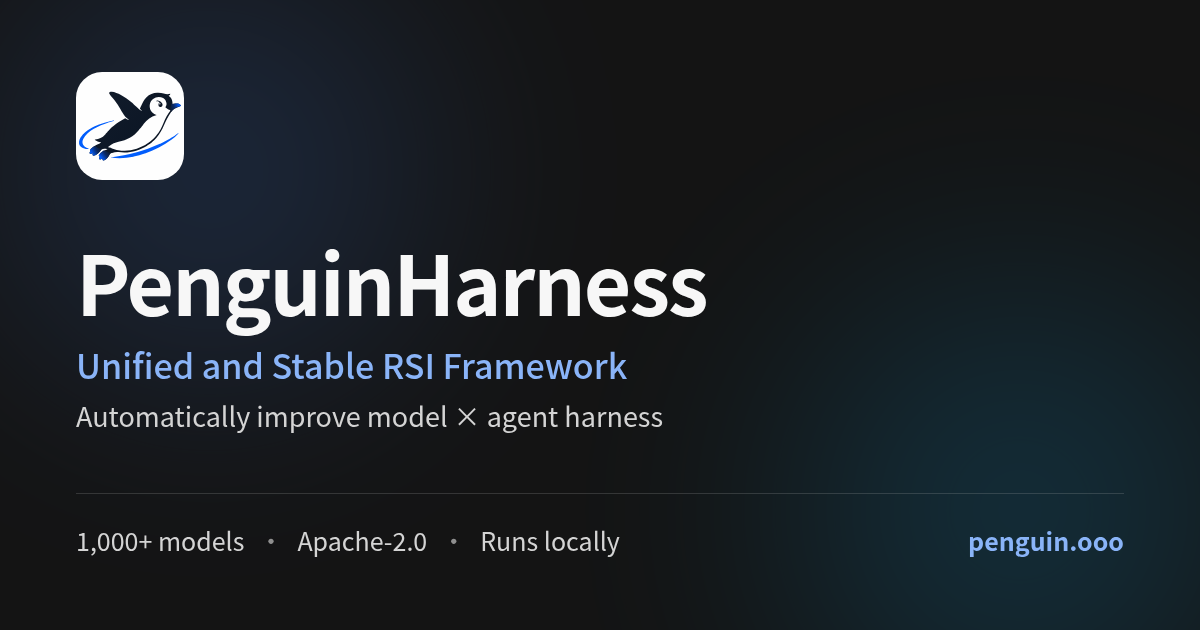
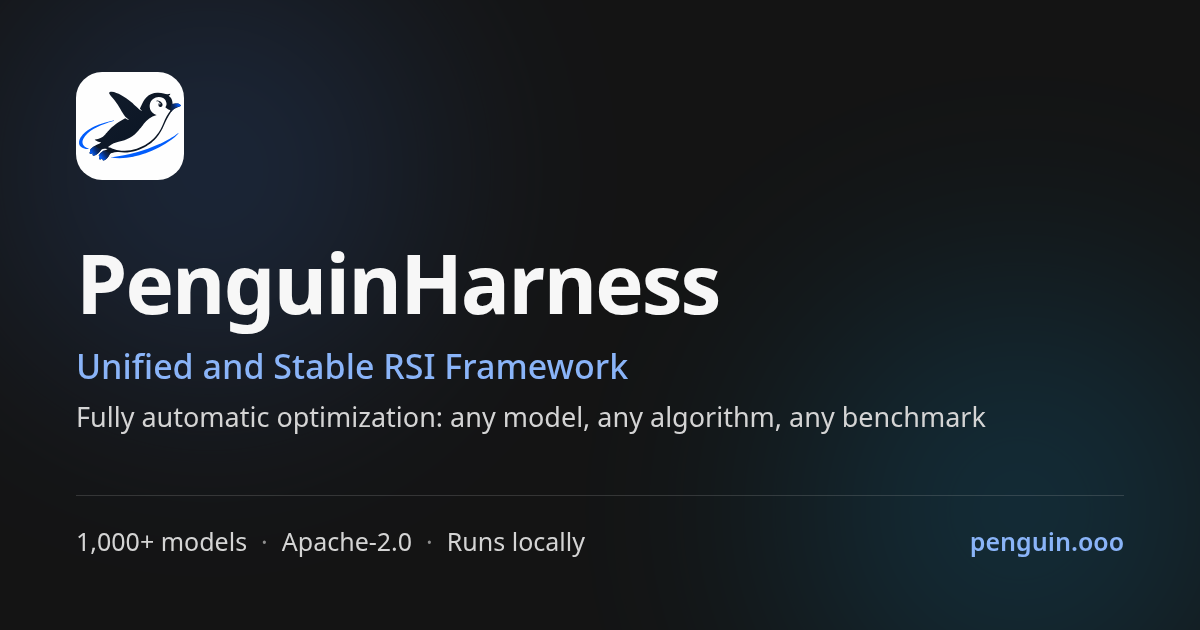
feat(landing): the tagline becomes "Fully automatic optimization: any model, any algorithm, any benchmark" (#1215)
## Summary

The user retired the subtitle 「全自动优化模型 × Agent Harness」 / "Automatically
improve model × agent harness". The line under "Unified and Stable RSI
Framework" now reads:

- zh (headline): 「全自动优化：任意模型 任意算法 任意 Benchmark」 (full-width colon,
spaces between the three items)
- zh (inside a sentence, docs): 「全自动优化：任意模型、任意算法、任意 Benchmark」
- en: "Fully automatic optimization: any model, any algorithm, any
benchmark"

Changed where it is the live copy:

- **Landing**: `hero.automation` in `strings.ts` / `strings-en.ts`; the
`description` and `og:description` metas in `index.html`;
`scripts/og-cover.html` and the re-rendered `public/og-cover.png`
(`scripts/capture-og-cover.mjs`).
- **READMEs**: the line under the title, bold kept on the three items.
- **Docs**: the introduction's opening paragraph and the one-line
summary above the pillars (zh and en). The surrounding sentences were
rephrased minimally so the tagline's own colon does not collide with the
sentence's.
- **Root `package.json` description**.
- Changelog pair `changelog/unreleased/2026-10-19-tagline{,.zh}.md`.

History stays as written (`changelog/0.2.15/*`).

### One layout adjustment

The old line fit on one line at phone widths; the new one does not. On a
360 px phone, the zh line broke inside a word ("…任意模型 任 / 意算法…"), and at
390 px the en line broke as "…optimization: any / model, …". Two small
fixes keep the wrap between the items:

- `hero.tsx`: the automation line gets `break-keep
[…]

diff --git a/packages/landing/index.html b/packages/landing/index.html
@@ -7,7 +7,7 @@
     <meta name="theme-color" content="#141414" media="(prefers-color-scheme: dark)" />
     <meta
       name="description"
-      content="PenguinHarness is the open-source Unified and Stable RSI Framework: automatically improve model × agent harness. One sentence builds an AI app that thinks and runs; one sentence starts an agent's self-evolution."
+      content="PenguinHarness is the open-source Unified and Stable RSI Framework. Fully automatic optimization: any model, any algorithm, any benchmark. One sentence builds an AI app that thinks and runs; one sentence starts an agent's self-evolution."
     />
     <!-- Self-referencing URLs for the home page: scripts/postbuild.mjs rewrites both per
          route as it stamps out the blog shells, and drops the canonical from 404.html.
@@ -20,7 +20,7 @@
     <meta property="og:title" content="PenguinHarness" />
     <meta
       property="og:description"
-      content="Unified and Stable RSI Framework: automatically improve model × agent harness. One sentence builds an AI app, one sentence starts self-evolution."
+      content="Unified and Stable RSI Framework. Fully automatic optimization: any model, any algorithm, any benchmark. One sentence builds an AI app, one sentence starts self-evolution."
     />
     <meta property="og:image" content="https://penguin.ooo/og-cover.png" />
     <meta property="og:image:width" content="1200" />

diff --git a/packages/landing/src/lib/strings-en.ts b/packages/landing/src/lib/strings-en.ts
@@ -46,7 +46,9 @@ export const en: Strings = {
   hero: {
     positioning: "Unified and Stable RSI Framework",
     badge: "for free",
-    automation: "Automatically improve model × agent harness",
+    /** No-break spaces keep each "any …" pair on one line when a phone wraps the tagline. */
+    automation:
+      "Fully automatic optimization: any\u00a0model, any\u00a0algorithm, any\u00a0benchmark",
     downloadCta: "Download desktop",
     cliInstall: "Command-line install",
     stats: [

diff --git a/packages/landing/src/sections/hero.tsx b/packages/landing/src/sections/hero.tsx
@@ -104,7 +104,7 @@ export function Hero() {
         </p>
 
         <p
-          className="hero-automation anim-rise mt-5 leading-6 text-balance text-gray-600 sm:leading-8 dark:text-gray-300"
+          className="hero-automation anim-rise mt-5 leading-6 text-balance break-keep text-gray-600 [overflow-wrap:break-word] sm:leading-8 dark:text-gray-300"
           style={{ animationDelay: "120ms" }}
         >
           {S.hero.automation}

diff --git a/packages/landing/scripts/og-cover.html b/packages/landing/scripts/og-cover.html
@@ -120,7 +120,9 @@
         <div>
           <h1>PenguinHarness</h1>
           <p class="tagline">Unified and Stable RSI Framework</p>
-          <p class="subline">Automatically improve model × agent harness</p>
+          <p class="subline">
+            Fully automatic optimization: any model, any algorithm, any benchmark
+          </p>
         </div>
         <div class="foot">
           <div class="facts">

diff --git a/packages/landing/src/lib/strings.ts b/packages/landing/src/lib/strings.ts
@@ -47,7 +47,7 @@ export const zh = {
     positioning: "统一、稳定的 Agent 自进化框架",
     /** The badge on the positioning line's top-right corner. */
     badge: "免费开源",
-    automation: "全自动优化模型 × Agent Harness",
+    automation: "全自动优化：任意模型 任意算法 任意 Benchmark",
     downloadCta: "下载桌面版",
     cliInstall: "命令行安装",
     stats: [

diff --git a/packages/docs/content/introduction.en.md b/packages/docs/content/introduction.en.md
@@ -3,7 +3,7 @@ title: Introduction
 description: What PenguinHarness is, what ships in the box, and where to start.
 ---
 
-Welcome to the PenguinHarness documentation. PenguinHarness is the **Unified and Stable RSI Framework**: an open-source agent harness that automatically improves model × agent harness. The model stays fixed; the harness — prompts, Skills, tools, hooks — is what evolves, and every self-evolution algorithm runs on the same Benchmarks, scoreboards and snapshots. It is built as one TypeScript stack, deploys fully locally, runs on as little as a single CPU, and reaches 1000+ online and local models through one gateway.
+Welcome to the PenguinHarness documentation. PenguinHarness is the **Unified and Stable RSI Framework**, an open-source agent harness. Fully automatic optimization: any model, any algorithm, any benchmark. The model stays fixed; the harness — prompts, Skills, tools, hooks — is what evolves, and every self-evolution algorithm runs on the same Benchmarks, scoreboards and snapshots. It is built as one TypeScript stack, deploys fully locally, runs on as little as a single CPU, and reaches 1000+ online and local models through one gateway.
 
 ## Get started
 
@@ -29,7 +29,7 @@ PenguinHarness is made of these components. They share one data root and one mes
 
 ## The three pillars
 
-PenguinHarness is summed up in one line, **Unified and Stable RSI Framework — automatically improve model × agent harness**, and organized around three concepts: the message protocol, the SDK and the skill library. Each concept carries one pillar:
+PenguinHarness is summed up in one line as the **Unified and Stable RSI Framework — fully automatic optimization: any model, any algorithm, any benchmark**. It is organized around three concepts: the message protocol, the SDK and the skill library. Each concept carries one pillar:
 
 | Pillar | Meaning |
 | --- | --- |

diff --git a/changelog/unreleased/2026-10-19-tagline.md b/changelog/unreleased/2026-10-19-tagline.md
@@ -1,0 +1,17 @@
+# The tagline reads "Fully automatic optimization: any model, any algorithm, any benchmark"
+
+- **Date:** 2026-10-19
+- **Type:** process
+- **Scope:** `landing`, `docs`, `tooling`
+- **PR:** [#1215](https://github.com/Prism-Shadow/penguin-harness/pull/1215)
+
+[中文版](2026-10-19-tagline.zh.md)
+
+The line under "Unified and Stable RSI Framework" changed from "Automatically improve model × agent harness" (zh: 全自动优化模型 × Agent Harness) to "Fully automatic optimization: any model, any algorithm, any benchmark" (zh: 全自动优化：任意模型 任意算法 任意 Benchmark).
+
+## Details
+
+- **Landing page.** The hero's second line, the meta and Open Graph descriptions, and the social share card (`public/og-cover.png`, re-rendered from `scripts/og-cover.html`) carried the new tagline. On a phone the hero line wraps between the three items, never inside one: the Chinese line keeps its words whole and the English one binds each "any" to its noun.
+- **READMEs.** The line under the title kept its bold on the three items.
+- **Docs.** The introduction's opening paragraph and its one-line summary above the three pillars used the new tagline. In running Chinese prose the three items are separated by enumeration commas: 任意模型、任意算法、任意 Benchmark.
+- **Package metadata.** The root `package.json` description followed.

diff --git a/changelog/unreleased/2026-10-19-tagline.zh.md b/changelog/unreleased/2026-10-19-tagline.zh.md
@@ -1,0 +1,17 @@
+# 副标题改为「全自动优化：任意模型 任意算法 任意 Benchmark」
+
+- **Date:** 2026-10-19
+- **Type:** process
+- **Scope:** `landing`, `docs`, `tooling`
+- **PR:** [#1215](https://github.com/Prism-Shadow/penguin-harness/pull/1215)
+
+[English](2026-10-19-tagline.md)
+
+「统一、稳定的 Agent 自进化框架」下方的一行由「全自动优化模型 × Agent Harness」（英文：Automatically improve model × agent harness）改为「全自动优化：任意模型 任意算法 任意 Benchmark」（英文：Fully automatic optimization: any model, any algorithm, any benchmark）。
+
+## 细节
+
+- **官网。** 首屏第二行、meta 与 Open Graph 描述，以及社交分享卡片（`public/og-cover.png`，由 `scripts/og-cover.html` 重新渲染）都换成了新副标题。手机上首屏这一行只在三项之间换行，不会从某一项中间断开：中文不拆词，英文的每个 any 与其后的名词连在一起。
+- **README。** 标题下的一行保留了三项内容的加粗。
+- **文档。** 产品介绍的开篇段落与三大支柱上方的一句话概括都改用新副标题；在中文行文中，三项之间以顿号分隔：任意模型、任意算法、任意 Benchmark。
+- **包元信息。** 根目录 `package.json` 的 description 随之更新。

diff --git a/README.zh.md b/README.zh.md
@@ -4,7 +4,7 @@
 
 <h1 align="center">PenguinHarness</h1>
 
-<p align="center"><strong>统一、稳定的 Agent 自进化框架</strong><br />全自动优化<strong>模型 × Agent Harness</strong></p>
+<p align="center"><strong>统一、稳定的 Agent 自进化框架</strong><br />全自动优化：<strong>任意模型 任意算法 任意 Benchmark</strong></p>
 
 <p align="center">
   <a href="https://penguin.ooo/download">

diff --git a/README.md b/README.md
@@ -4,7 +4,7 @@
 
 <h1 align="center">PenguinHarness</h1>
 
-<p align="center"><strong>Unified and Stable RSI Framework</strong><br />Automatically improve <strong>model × agent harness</strong></p>
+<p align="center"><strong>Unified and Stable RSI Framework</strong><br />Fully automatic optimization: <strong>any model, any algorithm, any benchmark</strong></p>
 
 <p align="center">
   <a href="https://penguin.ooo/download">
